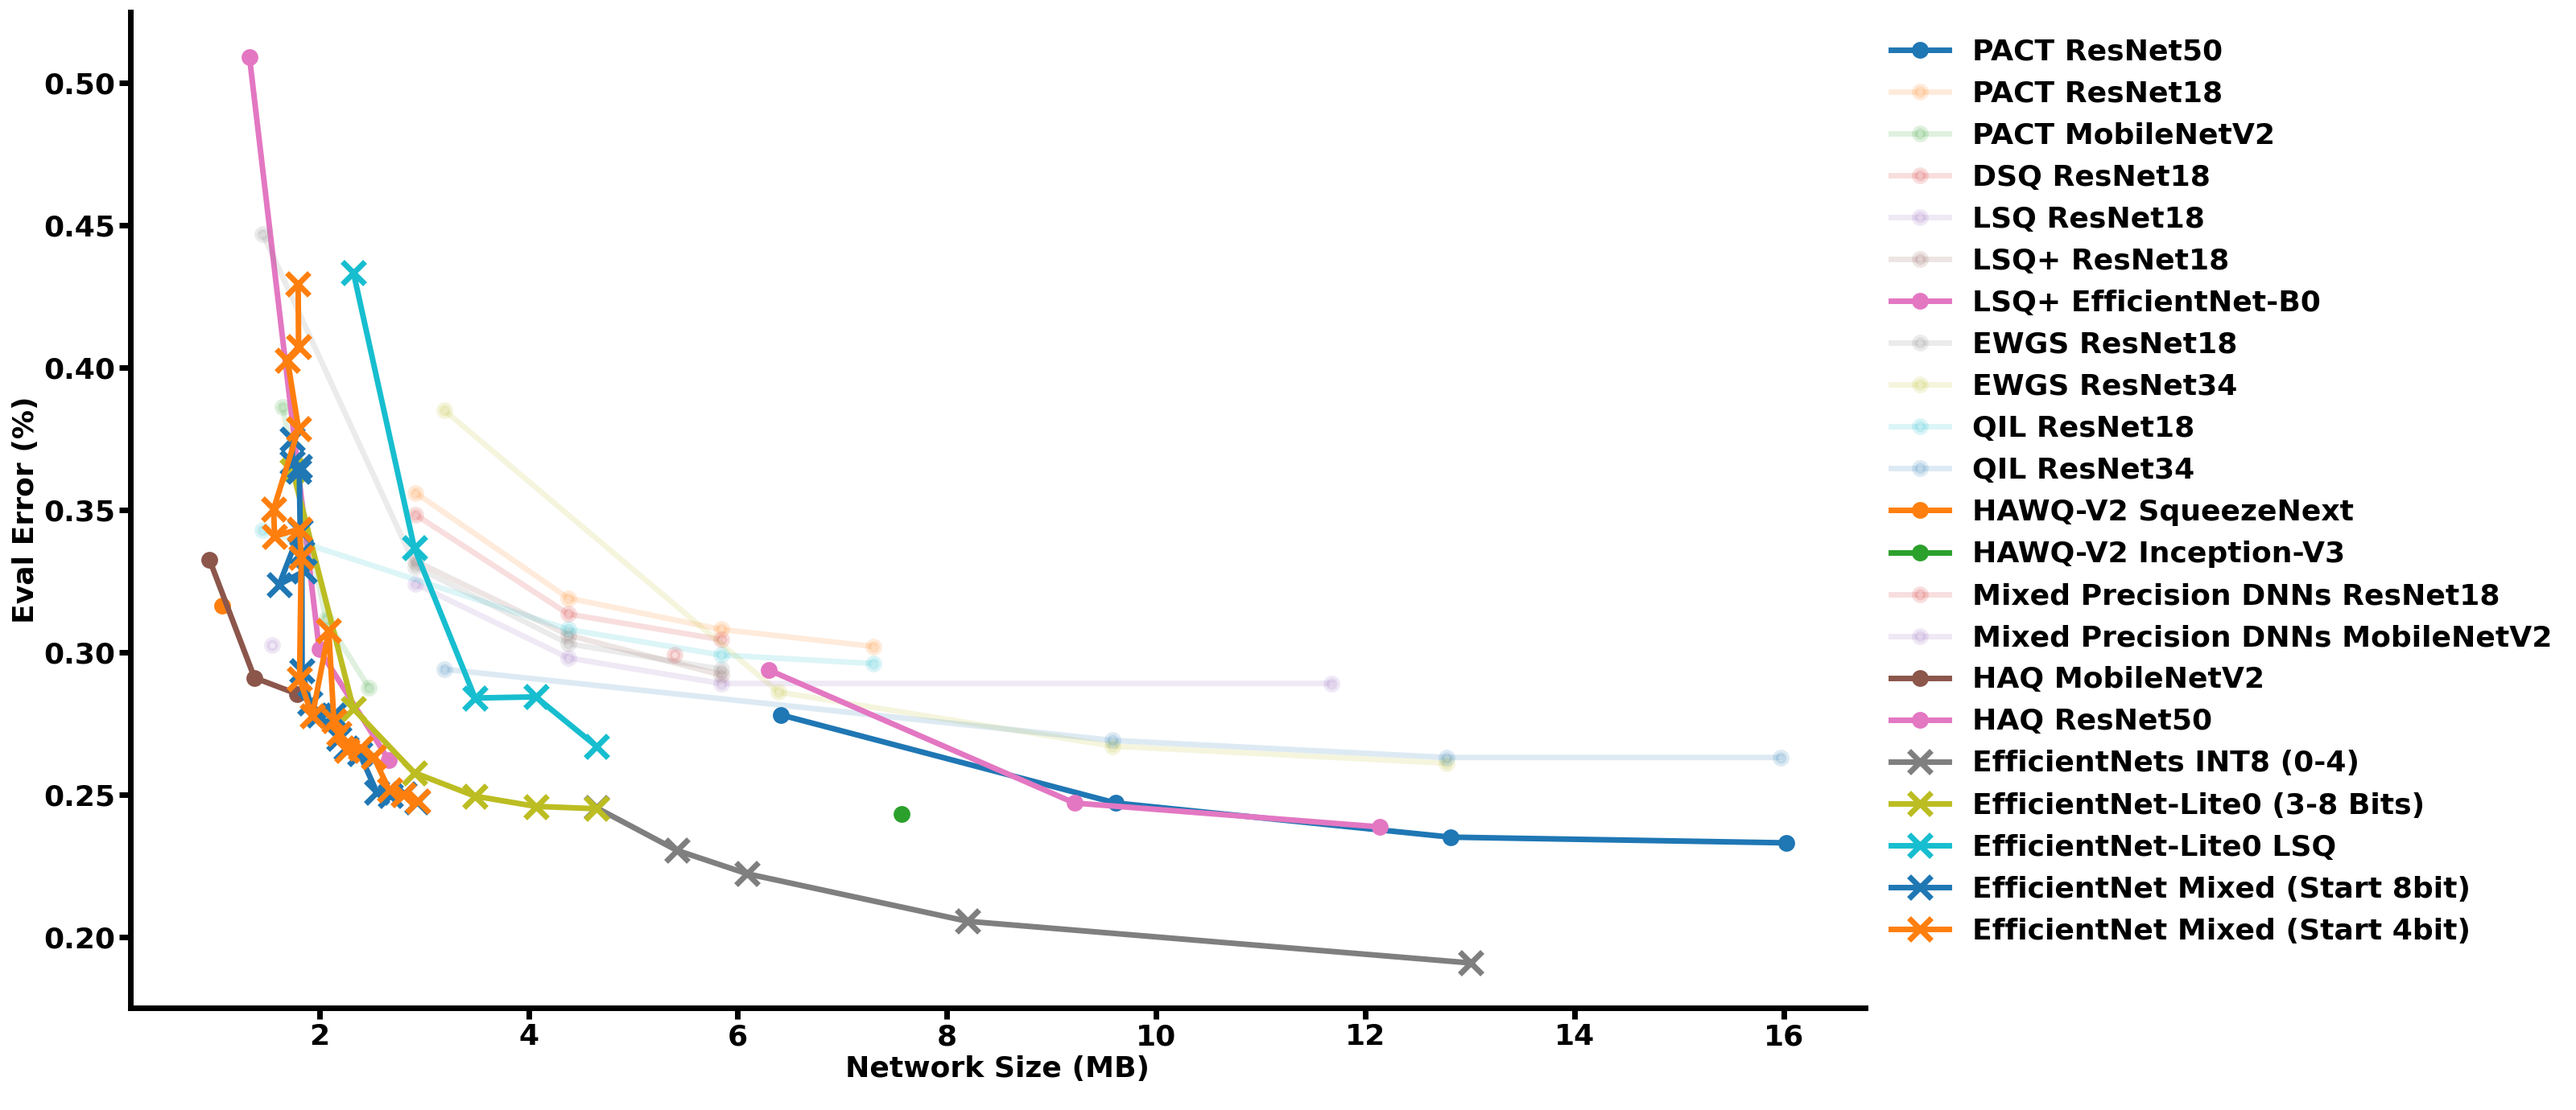
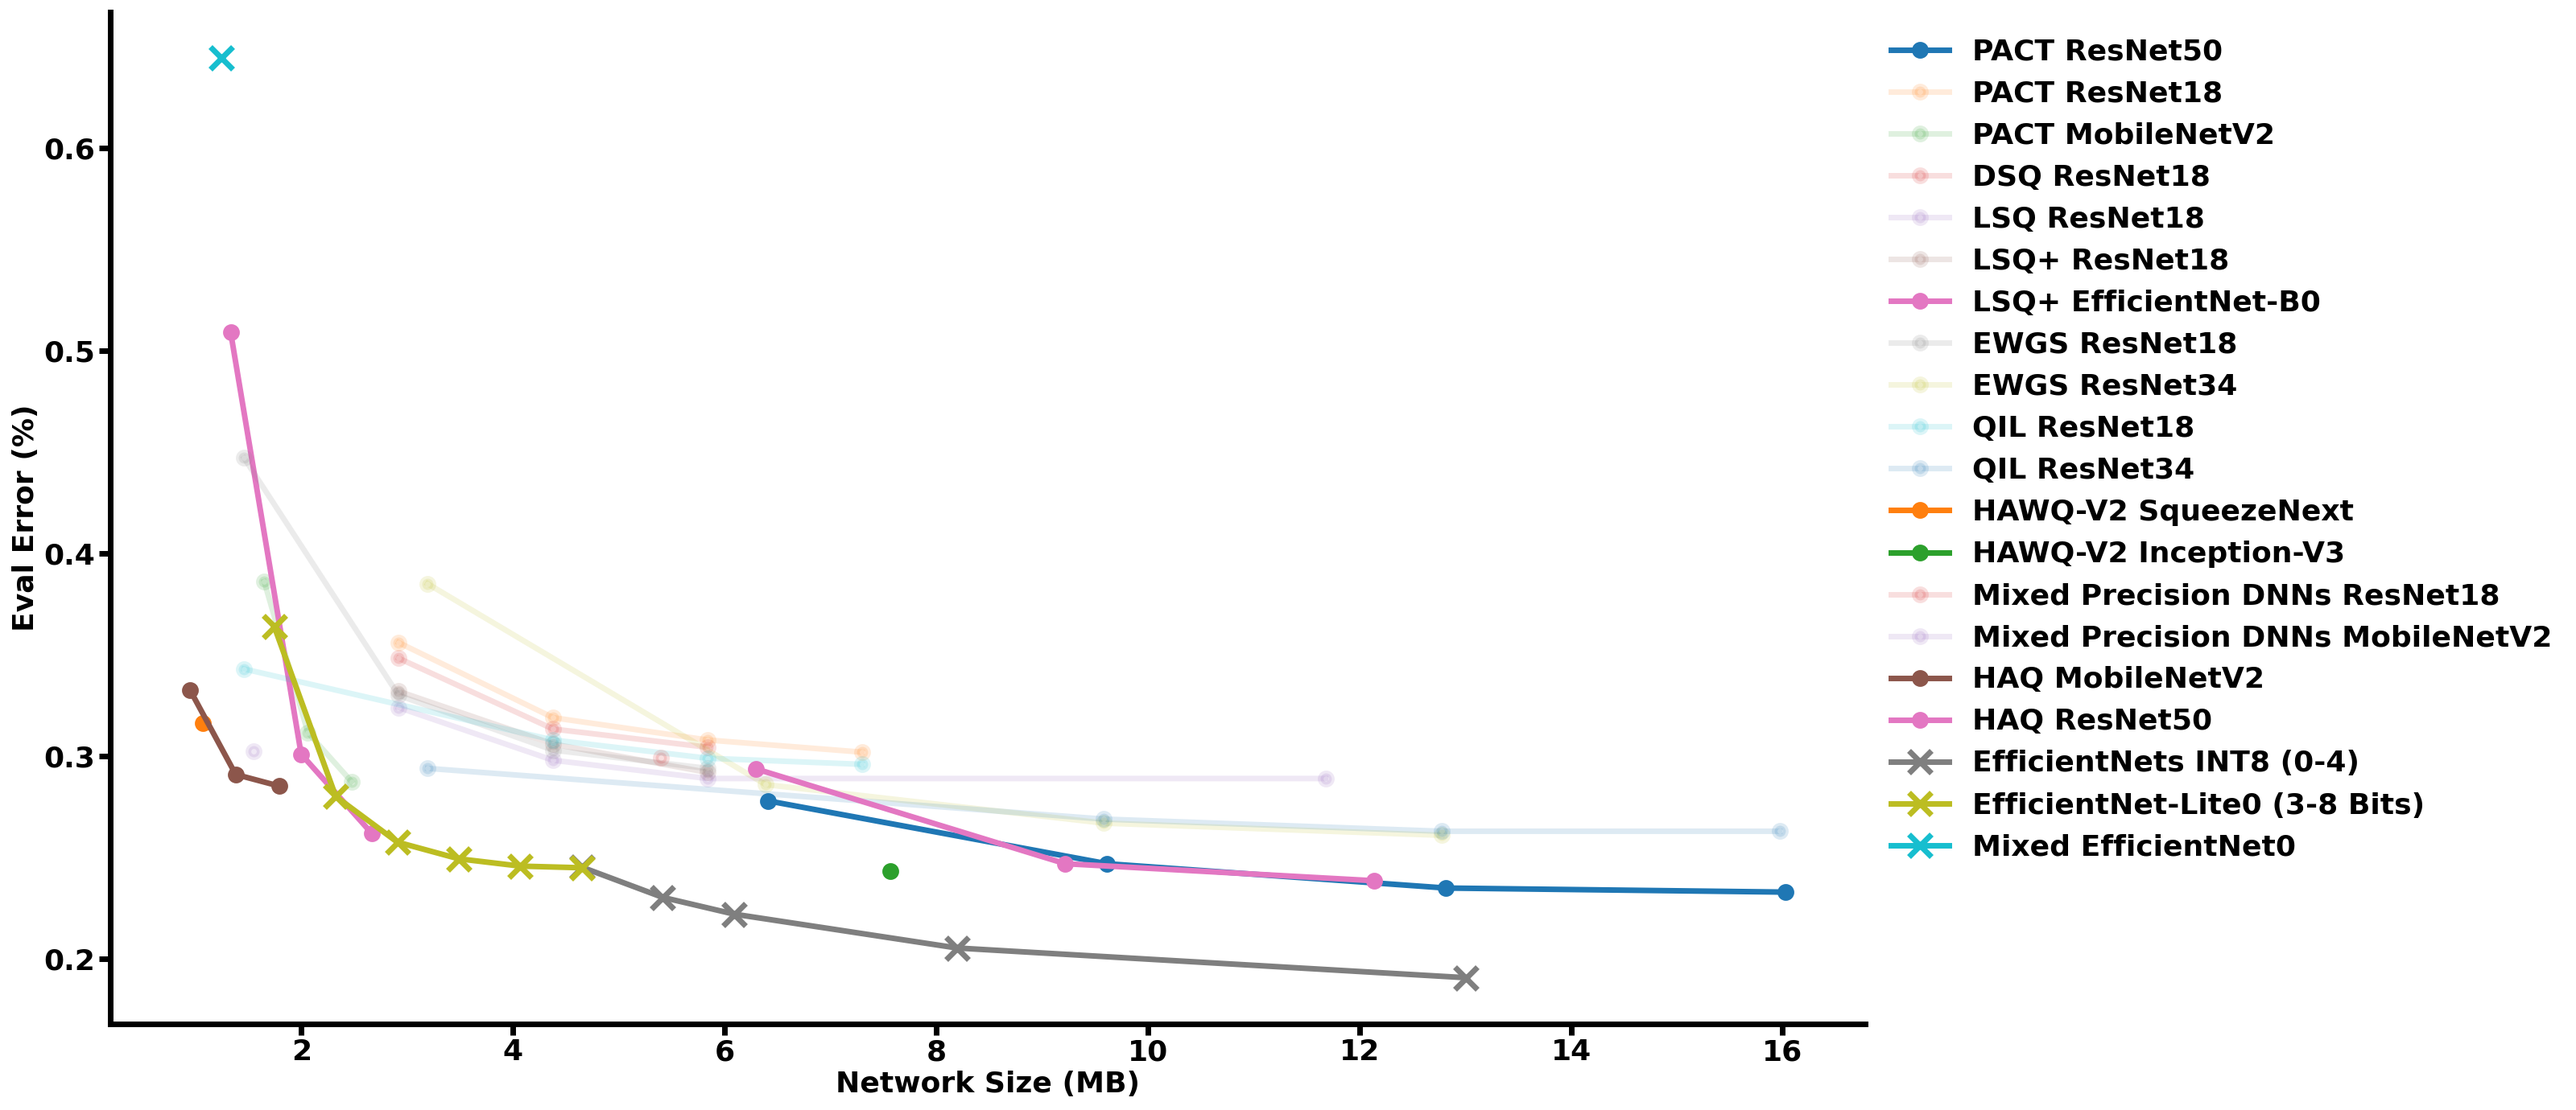
new figure

diff --git a/examples/efficientnet/visualization.py b/examples/efficientnet/visualization.py
@@ -813,11 +813,13 @@ def plot_comparison(name):
 
   plot_line(ax, enet0_lr_best)
 
-  plot_line(ax, enet0_dynamic_lsq)
+
+  ax.plot(1.246, 0.6442, marker='x', label="Mixed EfficientNet0", ms=20, markeredgewidth=5, linewidth=5)
+  #plot_line(ax, enet0_dynamic_lsq)
 
   # plot_mixed(ax, enet0_mixed)
-  plot_mixed(ax, enet0_mixed_8)
-  plot_mixed(ax, enet0_mixed_4)
+  #plot_mixed(ax, enet0_mixed_8)
+  #plot_mixed(ax, enet0_mixed_4)
 
   ax.set_xlabel("Network Size (MB)", fontsize=font_size, fontweight='bold')
   ax.set_ylabel("Eval Error (%)", fontsize=font_size, fontweight='bold')
